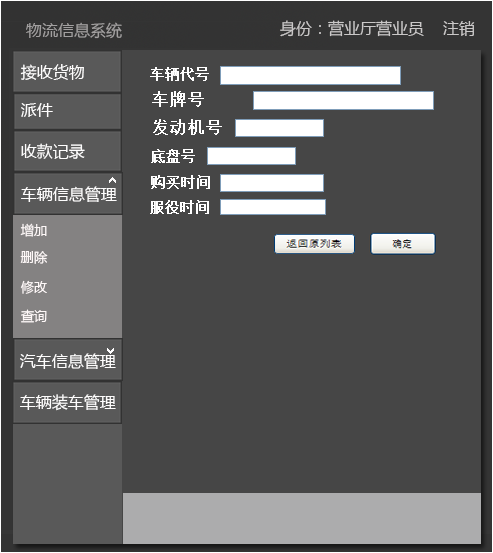
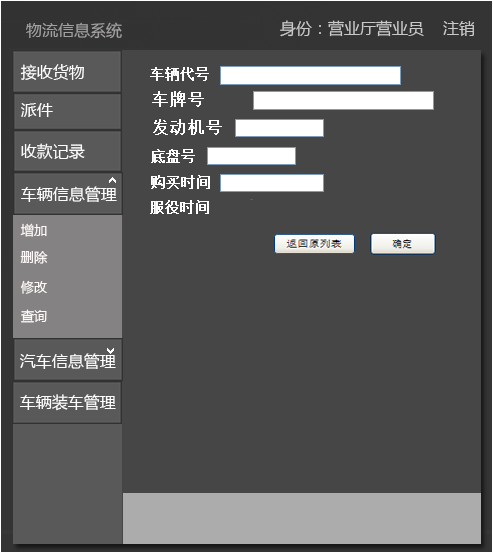
position

Changed region(s): [[0.426, 0.3382, 0.6694, 0.3996]]

diff --git a/ExpressSystem/client/src/main/java/nju/sec/yz/ExpressSystem/presentation/positionui/PositionArriveUi.java b/ExpressSystem/client/src/main/java/nju/sec/yz/ExpressSystem/presentation/positionui/PositionArriveUi.java
@@ -6,6 +6,8 @@ import java.awt.Graphics;
 import java.awt.Image;
 import java.awt.event.MouseAdapter;
 import java.awt.event.MouseEvent;
+import java.awt.event.MouseListener;
+import java.awt.event.MouseMotionListener;
 import java.util.ArrayList;
 import java.util.List;
 
@@ -17,6 +19,7 @@ import javax.swing.JPanel;
 import javax.swing.JScrollPane;
 import javax.swing.JTable;
 import javax.swing.JTextField;
+import javax.swing.table.TableCellRenderer;
 
 import nju.sec.yz.ExpressSystem.bl.deliverbl.DeliverController;
 import nju.sec.yz.ExpressSystem.bl.managerbl.CityConst;
@@ -50,11 +53,15 @@ public class PositionArriveUi extends JPanel{
 	private ClientControler mainControler;
 	private PositionControler controler;
 	private ButtonComponents bc;
+	private String[] name={"条形码号","货物到达状态"};
+	private String[][] data;
 	
 	private JComboBox JCdeparture;
 	private JTextField JTtranferId;
 	private DateChooser date;
-	private JComboBox state;
+//	private JComboBox state;
+	private JTable table;
+	private JScrollPane scroll;
 	private JButton confirm;
 	private JLabel warning;
 	
@@ -67,11 +74,12 @@ public class PositionArriveUi extends JPanel{
 	public static final int tranferId_w=182;
 	public static final int date_x=207;
 	public static final int date_y=115;
-	public static final int state_x=261;
-	public static final int state_y=140;
-	public static final int state_w=165;
+	public static final int scroll_x=138;
+	public static final int scroll_y=175;
+	public static final int scroll_w=315;
+	public static final int scroll_h=244;
 	public static final int confirm_x=355;
-	public static final int confirm_y=178;
+	public static final int confirm_y=443;
 	public static final int confirm_w=72;
 	public static final int confirm_h=24;
 	private static final int warning_x=198;
@@ -92,6 +100,7 @@ public class PositionArriveUi extends JPanel{
 		manageControler=new ManagerController();
 		List<String> citys=manageControler.getCities();
 		city=new String[citys.size()];
+		data=new String[][]{};
 		for(int i=0;i<citys.size();i++)
 		{
 			city[i]=citys.get(i);
@@ -115,9 +124,41 @@ public class PositionArriveUi extends JPanel{
 		
 		date=new DateChooser(this,date_x,date_y);
 		
-		state=new JComboBox(new String[]{"完整","丢失","损坏"});
-		state.setBounds(state_x, state_y, state_w, h);
-		add(state);
+		table=new JTable(data,name);
+		table.setRowHeight(20);
+//		table.setAutoResizeMode(JTable.AUTO_RESIZE_OFF);
+		
+		scroll=new JScrollPane(table);
+		scroll.setBounds(scroll_x,scroll_y,scroll_w,scroll_h);
+		scroll.addMouseListener(new MouseAdapter(){
+			public void mouseClicked(MouseEvent e) {
+				List<String> bars=deliverBl.getBarIdList(JTtranferId.getText());
+				System.out.println("here");
+				if(true)//bars!=null)
+				{
+//					data=new String[bars.size()][];
+//					for(int i=0;i<bars.size();i++)
+//					{
+//						data[i][0]=bars.get(i);
+//						data[i][1]="";
+//					}
+					data=new String[][]{{"1",""},{"2",""},{"3",""}};
+					table=new JTable(data,name);
+					table.getColumnModel().getColumn(1).setCellRenderer((TableCellRenderer) new JComboBox(new String[]{"完整","丢失","损坏"}));
+					repaint();
+				}
+				else{
+					warning.setText("中转单编号不存在，请检查");
+					warning.setVisible(true);
+					repaint();
+				}
+			}
+		});
+		add(scroll);
+		
+//		state=new JComboBox(new String[]{"完整","丢失","损坏"});
+//		state.setBounds(state_x, state_y, state_w, h);
+//		add(state);
 		
 		warning=new JLabel();
 		warning.setBounds(warning_x, warning_y, warning_w, warning_h);
@@ -135,20 +176,20 @@ public class PositionArriveUi extends JPanel{
 				 
 				OfficeArriveSheetVO sheet=new OfficeArriveSheetVO();
 				ArriveInformation ai=new ArriveInformation();
-				switch((String)state.getSelectedItem())
-				{
-				case "损坏":
-					arriveState=ArriveState.Broken;
-					break;
-				case "丢失":
-					arriveState=ArriveState.LOST;
-					break;
-				case "完整":
-					arriveState=ArriveState.PERFECT;
-					break;
-				}
+//				switch((String)state.getSelectedItem())
+//				{
+//				case "损坏":
+//					arriveState=ArriveState.Broken;
+//					break;
+//				case "丢失":
+//					arriveState=ArriveState.LOST;
+//					break;
+//				case "完整":
+//					arriveState=ArriveState.PERFECT;
+//					break;
+//				}
 				ai.setDeparture((String)JCdeparture.getSelectedItem());
-				ai.setState(arriveState);
+//				ai.setState(arriveState);
 				ai.setTime(date.getTime());
 				ai.setTransitSheetId(JTtranferId.getText());
 				sheet.setOfficeArrive(ai);

diff --git a/ExpressSystem/client/src/main/java/nju/sec/yz/ExpressSystem/presentation/positionui/PositionCarModifyFillUi.java b/ExpressSystem/client/src/main/java/nju/sec/yz/ExpressSystem/presentation/positionui/PositionCarModifyFillUi.java
@@ -6,6 +6,7 @@ import java.awt.Graphics;
 import java.awt.Image;
 import java.awt.event.MouseAdapter;
 import java.awt.event.MouseEvent;
+import java.util.Date;
 
 import javax.swing.ImageIcon;
 import javax.swing.JButton;
@@ -34,8 +35,7 @@ public class PositionCarModifyFillUi extends JPanel{
 	private JTextField JTmechine;
 	private JTextField JTdipan;
 	private DateChooser buyTime;
-//	private DateChooser workTime;
-	private JTextField workTime;
+	private JLabel workTime;
 	private JButton confirm;
 	private JLabel warning;
 	
@@ -106,10 +106,11 @@ public class PositionCarModifyFillUi extends JPanel{
 		add(JTdipan);
 		
 		//时间设定
-		buyTime=new DateChooser(this, buyTime_x, buyTime_y);
-		//时间设定
-		//workTime=new DateChooser(this,workTime_x,workTime_y);
-		workTime=new JTextField();
+		buyTime=new DateChooser(new Date(Integer.parseInt(carvo.getBuytime().substring(0, 4)),Integer.parseInt(carvo.getBuytime().substring(4,6)),Integer.parseInt(carvo.getBuytime().substring(6,8))),this, buyTime_x, buyTime_y);
+		
+		workTime=new JLabel();
+		workTime.setFont(new Font("Dialog",1,15));
+		workTime.setForeground(Color.WHITE);
 		workTime.setBounds(workTime_x, workTime_y, warning_w, warning_h);
 		add(workTime);
 		
@@ -134,12 +135,13 @@ public class PositionCarModifyFillUi extends JPanel{
 				}
 				else
 				{
-					CarVO carvo=new CarVO(JTcarId.getText(),JTcarCard.getText(),buyTime.getTime(),JTmechine.getText(),JTdipan.getText(),workTime.getText());
-					ResultMessage result=carBl.add(carvo);
+					CarVO carvo=new CarVO(JTcarId.getText(),JTcarCard.getText(),buyTime.getTime(),JTmechine.getText(),JTdipan.getText());
+					ResultMessage result=carBl.modify(carvo);
 					if(result.getResult()==Result.SUCCESS)
 					{
 						warning.setText("提交成功");
 						warning.setVisible(true);
+						workTime.setText(Integer.toString(carBl.getSingle(carvo.getId()).getWorktime()));
 						repaint();
 					}
 					else{

diff --git a/ExpressSystem/common/src/main/java/nju/sec/yz/ExpressSystem/common/ArriveInformation.java b/ExpressSystem/common/src/main/java/nju/sec/yz/ExpressSystem/common/ArriveInformation.java
@@ -1,6 +1,7 @@
 package nju.sec.yz.ExpressSystem.common;
 
 import java.io.Serializable;
+import java.util.ArrayList;
 
 /**
  * 
@@ -12,7 +13,7 @@ public class ArriveInformation implements Serializable{
 	private String time;//到达日期
 	private String transitSheetId;//中转单编号
 	private String departure;//出发地
-	private ArriveState state;//货物到达状态（损坏、完整、丢失）
+	private ArrayList<ArriveState> state;//货物到达状态（损坏、完整、丢失）
 	
 	
 	public String getTime() {
@@ -33,10 +34,10 @@ public class ArriveInformation implements Serializable{
 	public void setDeparture(String departure) {
 		this.departure = departure;
 	}
-	public ArriveState getState() {
+	public ArrayList<ArriveState> getState() {
 		return state;
 	}
-	public void setState(ArriveState state) {
+	public void setState(ArrayList<ArriveState> state) {
 		this.state = state;
 	}
 	

diff --git a/ExpressSystem/client/src/main/java/nju/sec/yz/ExpressSystem/presentation/positionui/PositionCarDeleteUi.java b/ExpressSystem/client/src/main/java/nju/sec/yz/ExpressSystem/presentation/positionui/PositionCarDeleteUi.java
@@ -102,7 +102,7 @@ public class PositionCarDeleteUi extends JPanel{
 			{
 				if(carBl.getSingle(search.getText())!=null){
 					CarVO carvo=carBl.getSingle(search.getText());
-					data=new String[][]{{carvo.getId(),carvo.getNumber(),carvo.getMechine(),carvo.getBuytime(),carvo.getWorktime()}};
+					data=new String[][]{{carvo.getId(),carvo.getNumber(),carvo.getMechine(),carvo.getBuytime(),Integer.toString(carvo.getWorktime())}};
 					repaint();
 				}
 				else{
@@ -130,7 +130,7 @@ public class PositionCarDeleteUi extends JPanel{
 					data[i][2]=cars.get(i).getMechine();
 					data[i][3]=cars.get(i).getDipan();
 					data[i][4]=cars.get(i).getBuytime();
-					data[i][5]=cars.get(i).getWorktime();
+					data[i][5]=Integer.toString(cars.get(i).getWorktime());
 				}
 //				table=new JTable(data,name);
 				search.setText("");

diff --git a/ExpressSystem/client/src/main/java/nju/sec/yz/ExpressSystem/presentation/positionui/PositionCarInquiryUi.java b/ExpressSystem/client/src/main/java/nju/sec/yz/ExpressSystem/presentation/positionui/PositionCarInquiryUi.java
@@ -97,7 +97,7 @@ public class PositionCarInquiryUi extends JPanel{
 			{
 				if(carBl.getSingle(search.getText())!=null){
 					CarVO carvo=carBl.getSingle(search.getText());
-					data=new String[][]{{carvo.getId(),carvo.getNumber(),carvo.getMechine(),carvo.getBuytime(),carvo.getWorktime()}};
+					data=new String[][]{{carvo.getId(),carvo.getNumber(),carvo.getMechine(),carvo.getBuytime(),Integer.toString(carvo.getWorktime())}};
 					repaint();
 				}
 				else{
@@ -125,7 +125,7 @@ public class PositionCarInquiryUi extends JPanel{
 					data[i][2]=cars.get(i).getMechine();
 					data[i][3]=cars.get(i).getDipan();
 					data[i][4]=cars.get(i).getBuytime();
-					data[i][5]=cars.get(i).getWorktime();
+					data[i][5]=Integer.toString(cars.get(i).getWorktime());
 				}
 				search.setText("");
 //				table=new JTable(data,name);

diff --git a/ExpressSystem/client/src/main/java/nju/sec/yz/ExpressSystem/presentation/positionui/PositionCarModifyUi.java b/ExpressSystem/client/src/main/java/nju/sec/yz/ExpressSystem/presentation/positionui/PositionCarModifyUi.java
@@ -97,7 +97,7 @@ public class PositionCarModifyUi extends JPanel{
 			{
 				if(carBl.getSingle(search.getText())!=null){
 					CarVO carvo=carBl.getSingle(search.getText());
-					data=new String[][]{{carvo.getId(),carvo.getNumber(),carvo.getMechine(),carvo.getBuytime(),carvo.getWorktime()}};
+					data=new String[][]{{carvo.getId(),carvo.getNumber(),carvo.getMechine(),carvo.getBuytime(),Integer.toString(carvo.getWorktime())}};
 //					table=new JTable(data,name);
 					repaint();
 				}

diff --git a/ExpressSystem/client/src/main/java/nju/sec/yz/ExpressSystem/presentation/positionui/PositionCarAddUi.java b/ExpressSystem/client/src/main/java/nju/sec/yz/ExpressSystem/presentation/positionui/PositionCarAddUi.java
@@ -123,7 +123,7 @@ public class PositionCarAddUi extends JPanel{
 				}
 				else
 				{
-					CarVO carvo=new CarVO(JTcarId.getText(),JTcarCard.getText(),buyTime.getTime(),JTmechine.getText(),JTdipan.getText(),workTime.getTime());
+					CarVO carvo=new CarVO(JTcarId.getText(),JTcarCard.getText(),buyTime.getTime(),JTmechine.getText(),JTdipan.getText());
 					ResultMessage result=carBl.add(carvo);
 					if(result.getResult()==Result.SUCCESS)
 					{
